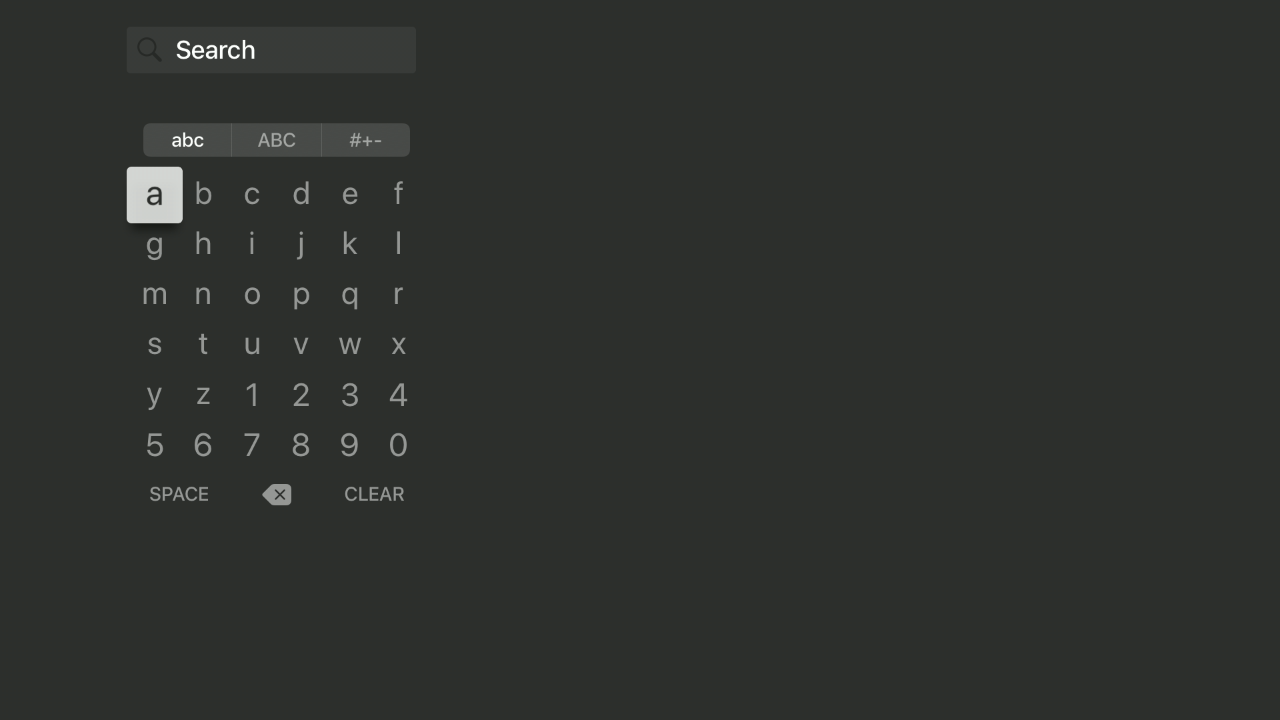
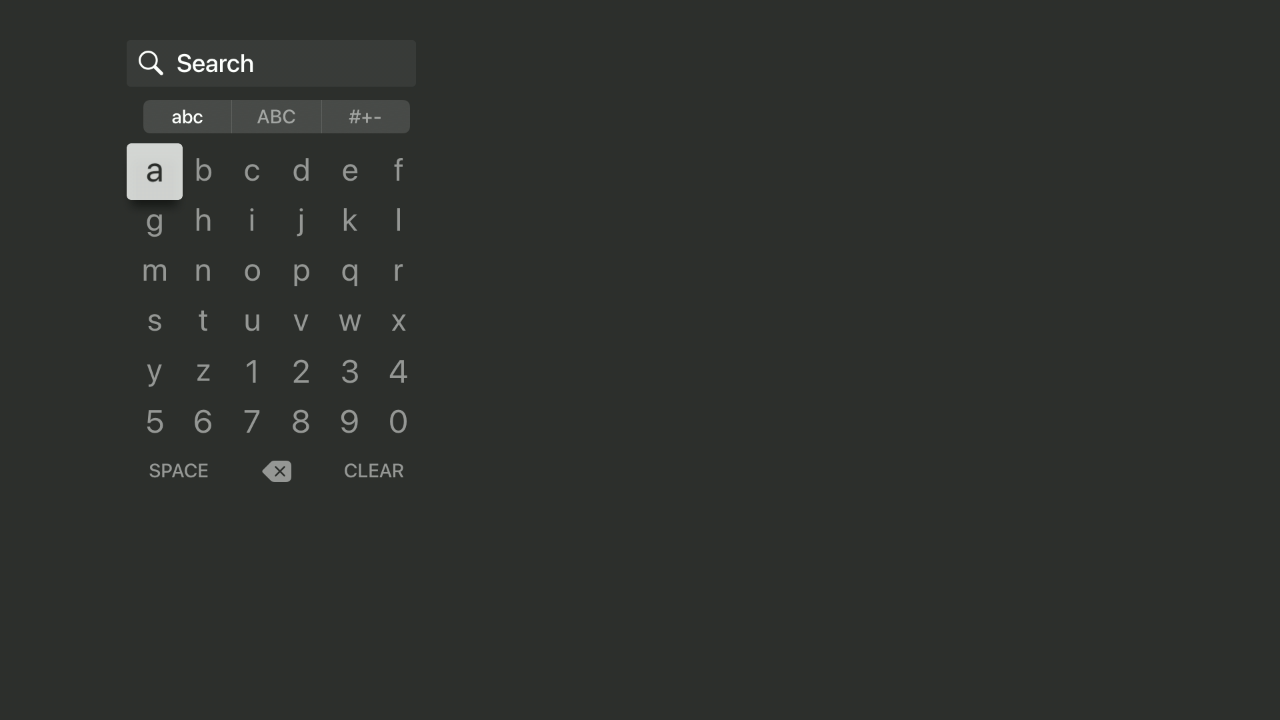
youtube.Search: Update for for visual change in app (keyboard shifted up 25px)

diff --git a/tests/youtube/search/search.py b/tests/youtube/search/search.py
@@ -13,7 +13,7 @@ class Search(stbt.FrameObject):
     """
 
     KEYBOARD_GRID = stbt.Grid(
-        region=stbt.Region(x=125, y=165, right=430, bottom=470),
+        region=stbt.Region(x=125, y=140, right=430, bottom=445),
         data=[
             "abcdef",
             "ghijkl",
@@ -22,7 +22,7 @@ class Search(stbt.FrameObject):
             "yz1234",
             "567890"])
     BOTTOM_GRID = stbt.Grid(
-        region=stbt.Region(x=125, y=470, right=430, bottom=525),
+        region=stbt.Region(x=125, y=445, right=430, bottom=500),
         data=[[" ", "DELETE", "CLEAR"]])
 
     @property
